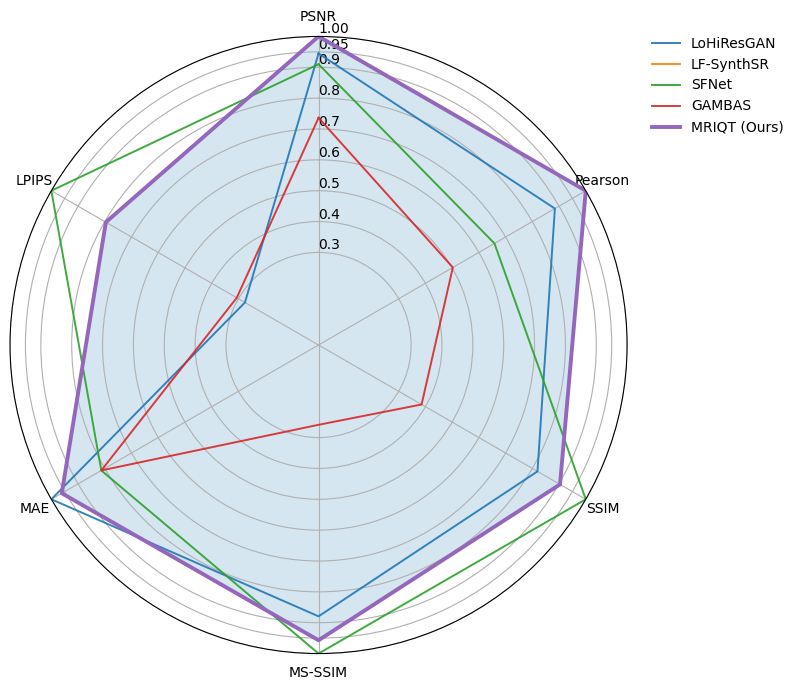
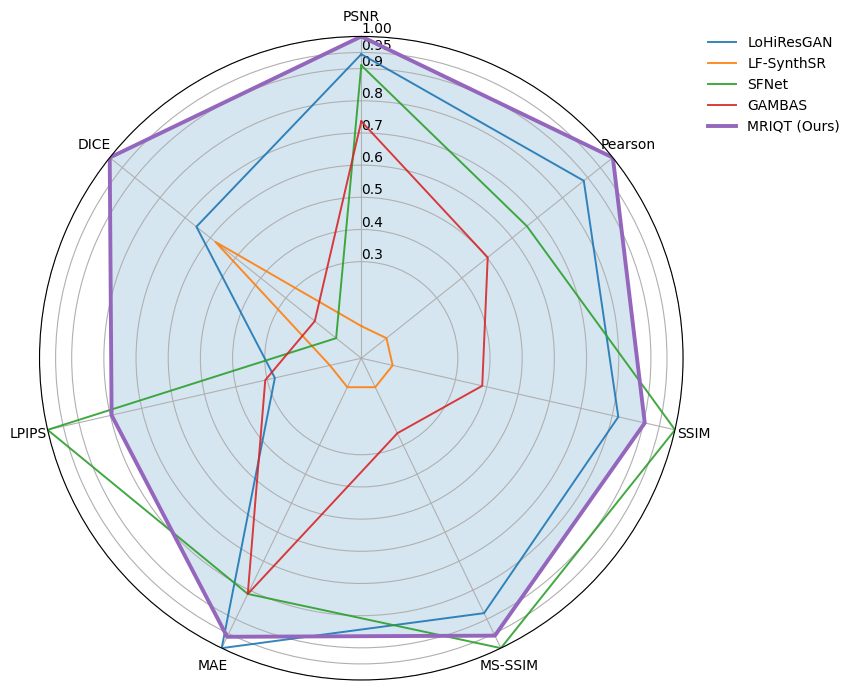
updates

diff --git a/index.html b/index.html
@@ -3343,6 +3343,8 @@ A core commitment of the lab is to design AI solutions that remain effective und
     </div>
     <div class="col-12 col-lg-8">
       <ul>
+<li>Our three submitted papers got accepted as <strong>Oral Presentations</strong> at 
+<a href="https://biomedicalimaging.org/2026/" target="_blank" rel="noopener">The 23rd IEEE International Symposium on Biomedical Imaging (<em>ISBI</em>)</a>, London, United Kingdom</li>
 <li>One Paper got early accepted (Top 9%) at 
 <a href="https://conferences.miccai.org/2025/en/" target="_blank" rel="noopener">The 28th International Conference on Medical Image Computing and Computer Assisted Intervention (MICCAI 2025)</a>, Daejeon, South Korea</li>
 <li>Two Papers got accepted at 

diff --git a/talk/icann2019/index.html b/talk/icann2019/index.html
@@ -1268,9 +1268,9 @@ In this talk, a couple of proposed methods, to tackle the challenges above, will
       
       <li><a href="/slides/_example/">AI meets COVID-19</a></li>
       
-      <li><a href="/slides/federated/">Preliminary Meeting for the seminar on Federated Learning in Healthcare</a></li>
-      
       <li><a href="/slides/pres/">Preliminary Meeting for the seminar on Federated Learning in Healthcare</a></li>
+      
+      <li><a href="/slides/federated/">Preliminary Meeting for the seminar on Federated Learning in Healthcare</a></li>
       
       <li><a href="/talk/neocolam2019/">Keynote Speaker: Artificial Intelligence. Just Math?</a></li>
       

diff --git a/funded/uncertainty/index.html b/funded/uncertainty/index.html
@@ -1200,9 +1200,9 @@
       
       <li><a href="/publication/soberanis-2019-uncertainty/">Uncertainty-based graph convolutional networks for organ segmentation refinement</a></li>
       
-      <li><a href="/funded/federated-learning/">Deep Federated Learning in Healthcare</a></li>
-      
       <li><a href="/project/federated-learning/">Deep Federated Learning in Healthcare</a></li>
+      
+      <li><a href="/funded/federated-learning/">Deep Federated Learning in Healthcare</a></li>
       
       <li><a href="/project/learn-from-crowds/">Learn from Crowds</a></li>
       

diff --git a/talk/hida2021/index.html b/talk/hida2021/index.html
@@ -1260,9 +1260,9 @@
       
       <li><a href="/funded/bigpicture/">BigPicture Project</a></li>
       
-      <li><a href="/funded/federated-learning/">Deep Federated Learning in Healthcare</a></li>
-      
       <li><a href="/project/federated-learning/">Deep Federated Learning in Healthcare</a></li>
+      
+      <li><a href="/funded/federated-learning/">Deep Federated Learning in Healthcare</a></li>
       
       <li><a href="/talk/dcl2020/">Organizing Committee Member at MICCAI DCL 2020</a></li>
       

diff --git a/talk/mbzuai/index.html b/talk/mbzuai/index.html
@@ -1259,9 +1259,9 @@
       
       <li><a href="/funded/bigpicture/">BigPicture Project</a></li>
       
-      <li><a href="/funded/federated-learning/">Deep Federated Learning in Healthcare</a></li>
-      
       <li><a href="/project/federated-learning/">Deep Federated Learning in Healthcare</a></li>
+      
+      <li><a href="/funded/federated-learning/">Deep Federated Learning in Healthcare</a></li>
       
       <li><a href="/talk/dcl2020/">Organizing Committee Member at MICCAI DCL 2020</a></li>
       

diff --git a/publication/bejnordi-2017-diagnostic/index.html b/publication/bejnordi-2017-diagnostic/index.html
@@ -1406,9 +1406,9 @@
       
       <li><a href="/slides/_example/">AI meets COVID-19</a></li>
       
-      <li><a href="/slides/federated/">Preliminary Meeting for the seminar on Federated Learning in Healthcare</a></li>
-      
       <li><a href="/slides/pres/">Preliminary Meeting for the seminar on Federated Learning in Healthcare</a></li>
+      
+      <li><a href="/slides/federated/">Preliminary Meeting for the seminar on Federated Learning in Healthcare</a></li>
       
     </ul>
   </div>

diff --git a/talk/compay2019/index.html b/talk/compay2019/index.html
@@ -1262,9 +1262,9 @@
       
       <li><a href="/slides/_example/">AI meets COVID-19</a></li>
       
-      <li><a href="/slides/federated/">Preliminary Meeting for the seminar on Federated Learning in Healthcare</a></li>
-      
       <li><a href="/slides/pres/">Preliminary Meeting for the seminar on Federated Learning in Healthcare</a></li>
+      
+      <li><a href="/slides/federated/">Preliminary Meeting for the seminar on Federated Learning in Healthcare</a></li>
       
     </ul>
   </div>

diff --git a/xtarx.github.io/staingan/index.html b/xtarx.github.io/staingan/index.html
@@ -1366,9 +1366,9 @@
       
       <li><a href="/slides/_example/">AI meets COVID-19</a></li>
       
-      <li><a href="/slides/pres/">Preliminary Meeting for the seminar on Federated Learning in Healthcare</a></li>
-      
       <li><a href="/slides/federated/">Preliminary Meeting for the seminar on Federated Learning in Healthcare</a></li>
+      
+      <li><a href="/slides/pres/">Preliminary Meeting for the seminar on Federated Learning in Healthcare</a></li>
       
     </ul>
   </div>

diff --git a/project/learn-from-crowds/index.html b/project/learn-from-crowds/index.html
@@ -1226,9 +1226,9 @@
     <h3>Related</h3>
     <ul>
       
-      <li><a href="/project/federated-learning/">Deep Federated Learning in Healthcare</a></li>
-      
       <li><a href="/funded/federated-learning/">Deep Federated Learning in Healthcare</a></li>
+      
+      <li><a href="/project/federated-learning/">Deep Federated Learning in Healthcare</a></li>
       
       <li><a href="/project/learn-from-graph/">Learn from Prior Knowledge</a></li>
       

diff --git a/students/courses/flhsose2021/index.html b/students/courses/flhsose2021/index.html
@@ -1619,7 +1619,7 @@ I could not find better than this
       
       <li><a href="/students/courses/flh/">Seminar: Federated Learning in Healthcare (WiSe2020)</a></li>
       
-      <li><a href="/project/federated-learning/">Deep Federated Learning in Healthcare</a></li>
+      <li><a href="/funded/federated-learning/">Deep Federated Learning in Healthcare</a></li>
       
     </ul>
   </div>

diff --git a/publication/baur-2017-semi/index.html b/publication/baur-2017-semi/index.html
@@ -1338,7 +1338,7 @@
       
       <li><a href="/talk/ai4h/">Keynote Speaker: AI in Healthcare</a></li>
       
-      <li><a href="/slides/federated/">Preliminary Meeting for the seminar on Federated Learning in Healthcare</a></li>
+      <li><a href="/slides/pres/">Preliminary Meeting for the seminar on Federated Learning in Healthcare</a></li>
       
     </ul>
   </div>

diff --git a/talk/dart2019/index.html b/talk/dart2019/index.html
@@ -1258,7 +1258,7 @@
       
       <li><a href="/slides/_example/">AI meets COVID-19</a></li>
       
-      <li><a href="/slides/federated/">Preliminary Meeting for the seminar on Federated Learning in Healthcare</a></li>
+      <li><a href="/slides/pres/">Preliminary Meeting for the seminar on Federated Learning in Healthcare</a></li>
       
     </ul>
   </div>
